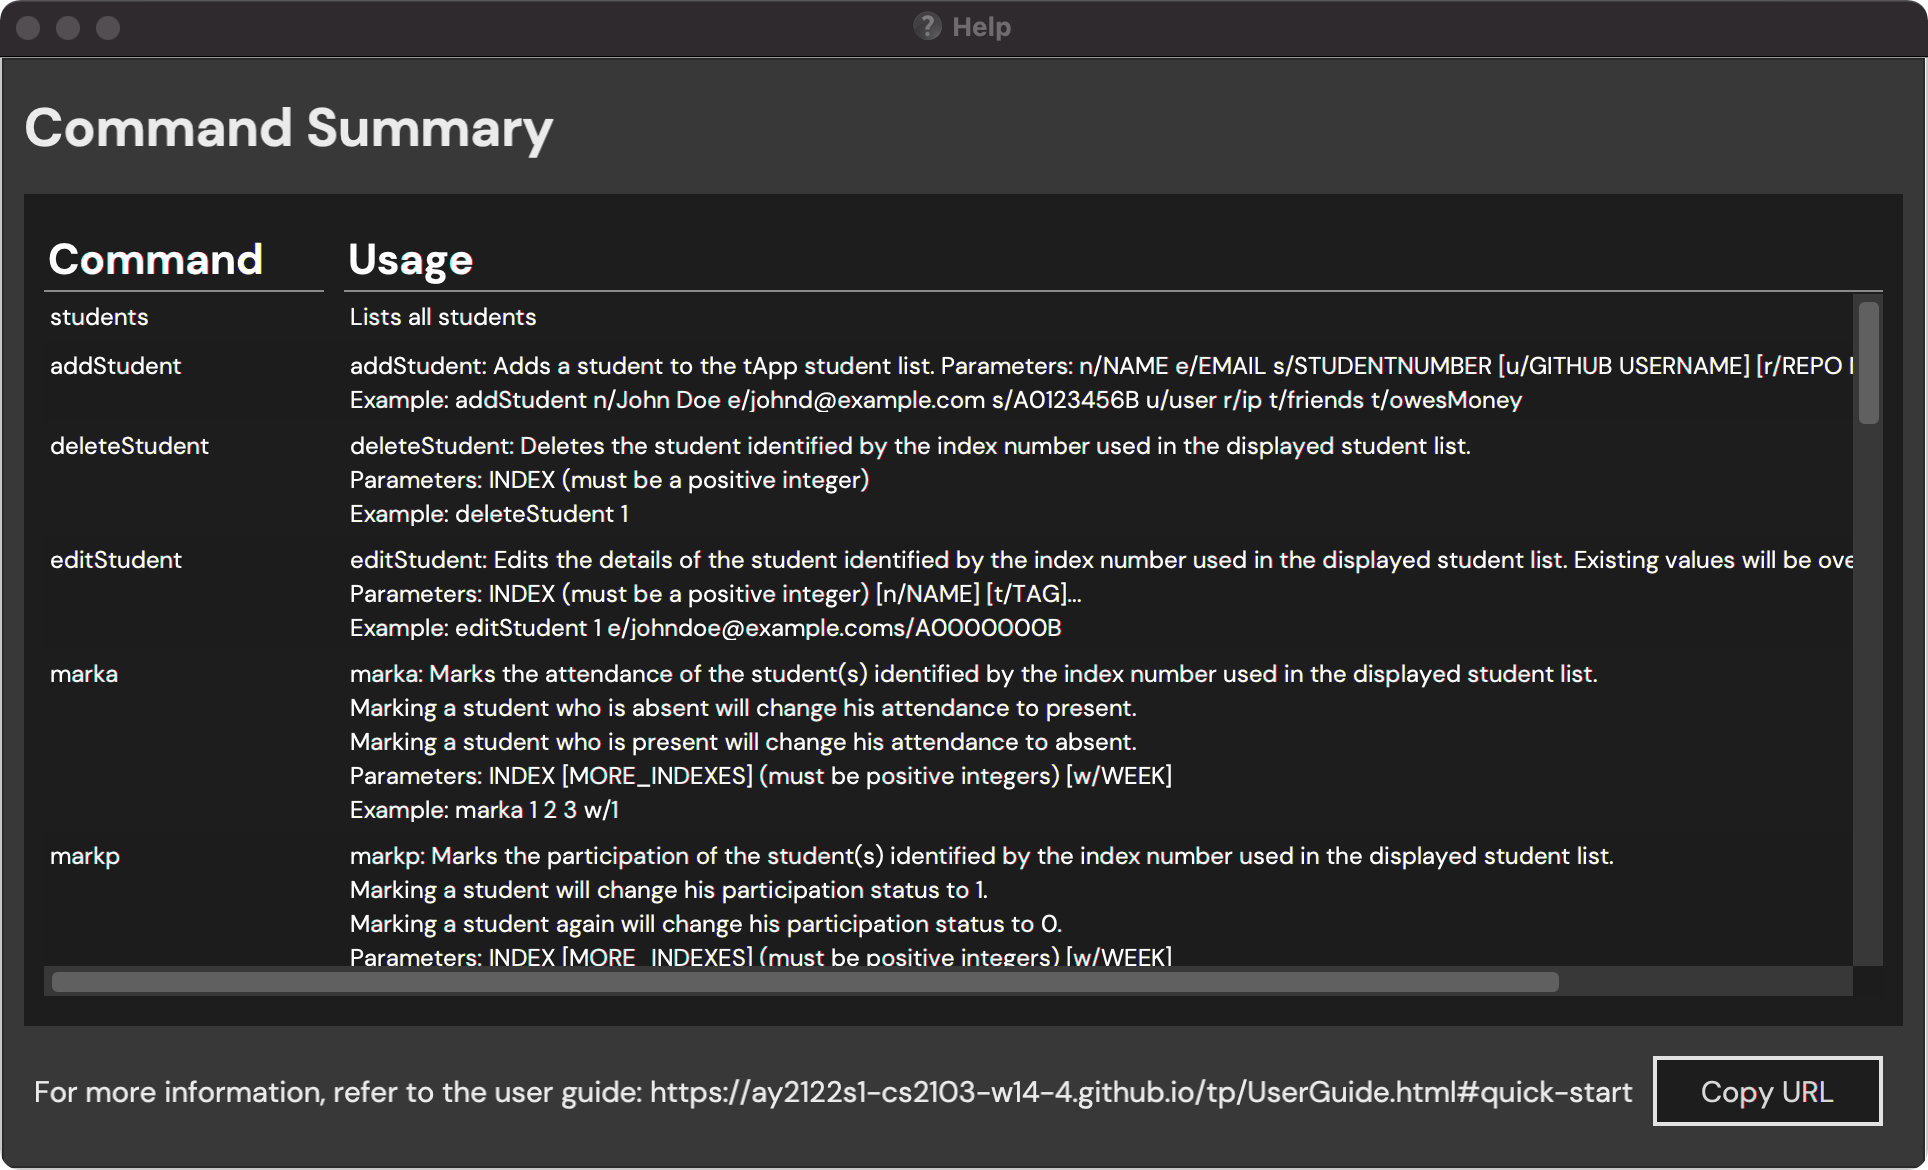
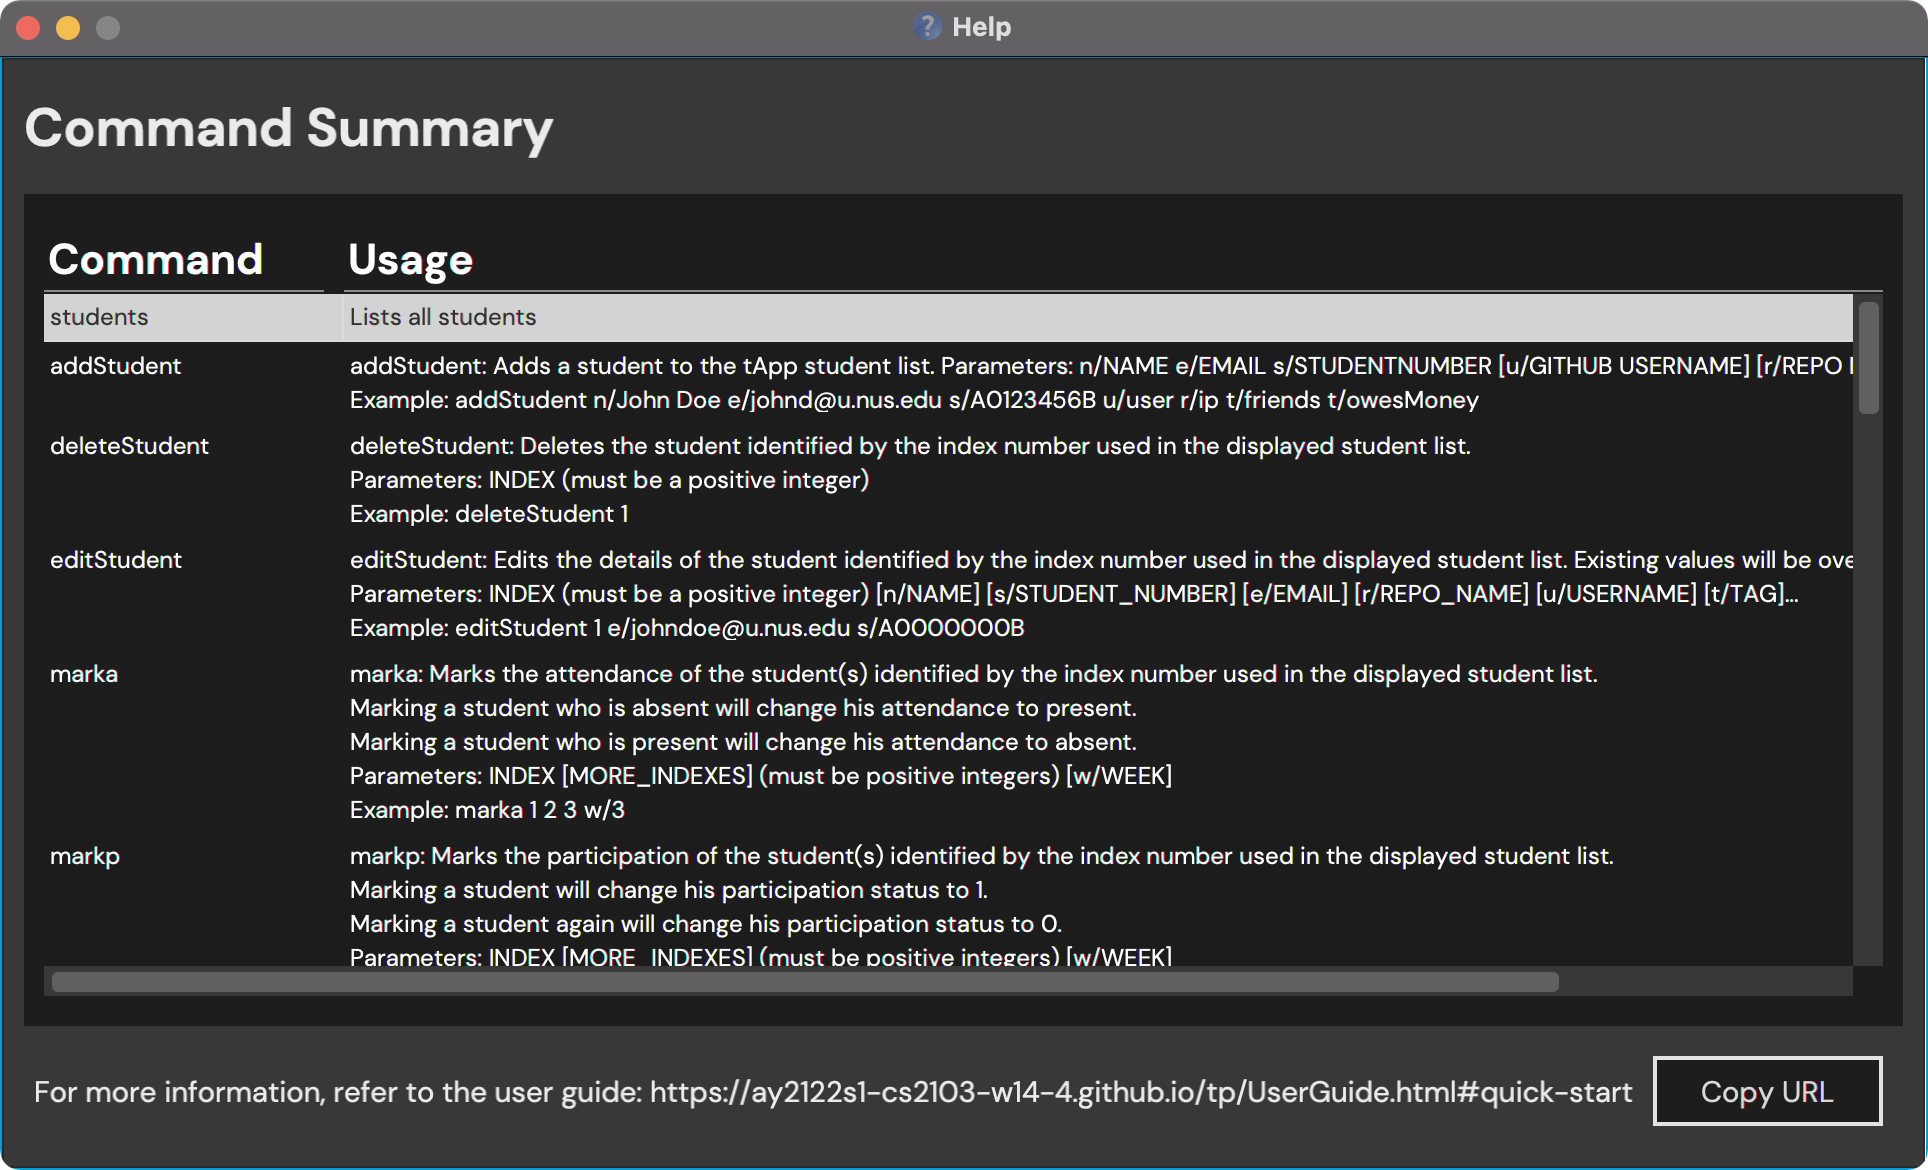
Update help image and UG

diff --git a/docs/UserGuide.md b/docs/UserGuide.md
@@ -446,11 +446,11 @@ Format: `clearTasks`
 
 ---
 
-## Clearing all entries from tApp: `clear`
+## Clearing all entries from tApp: `clearAll`
 
 Clears all entries from tApp.
 
-Format: `clear`
+Format: `clearAll`
 
 ## Viewing help : `help`
 
